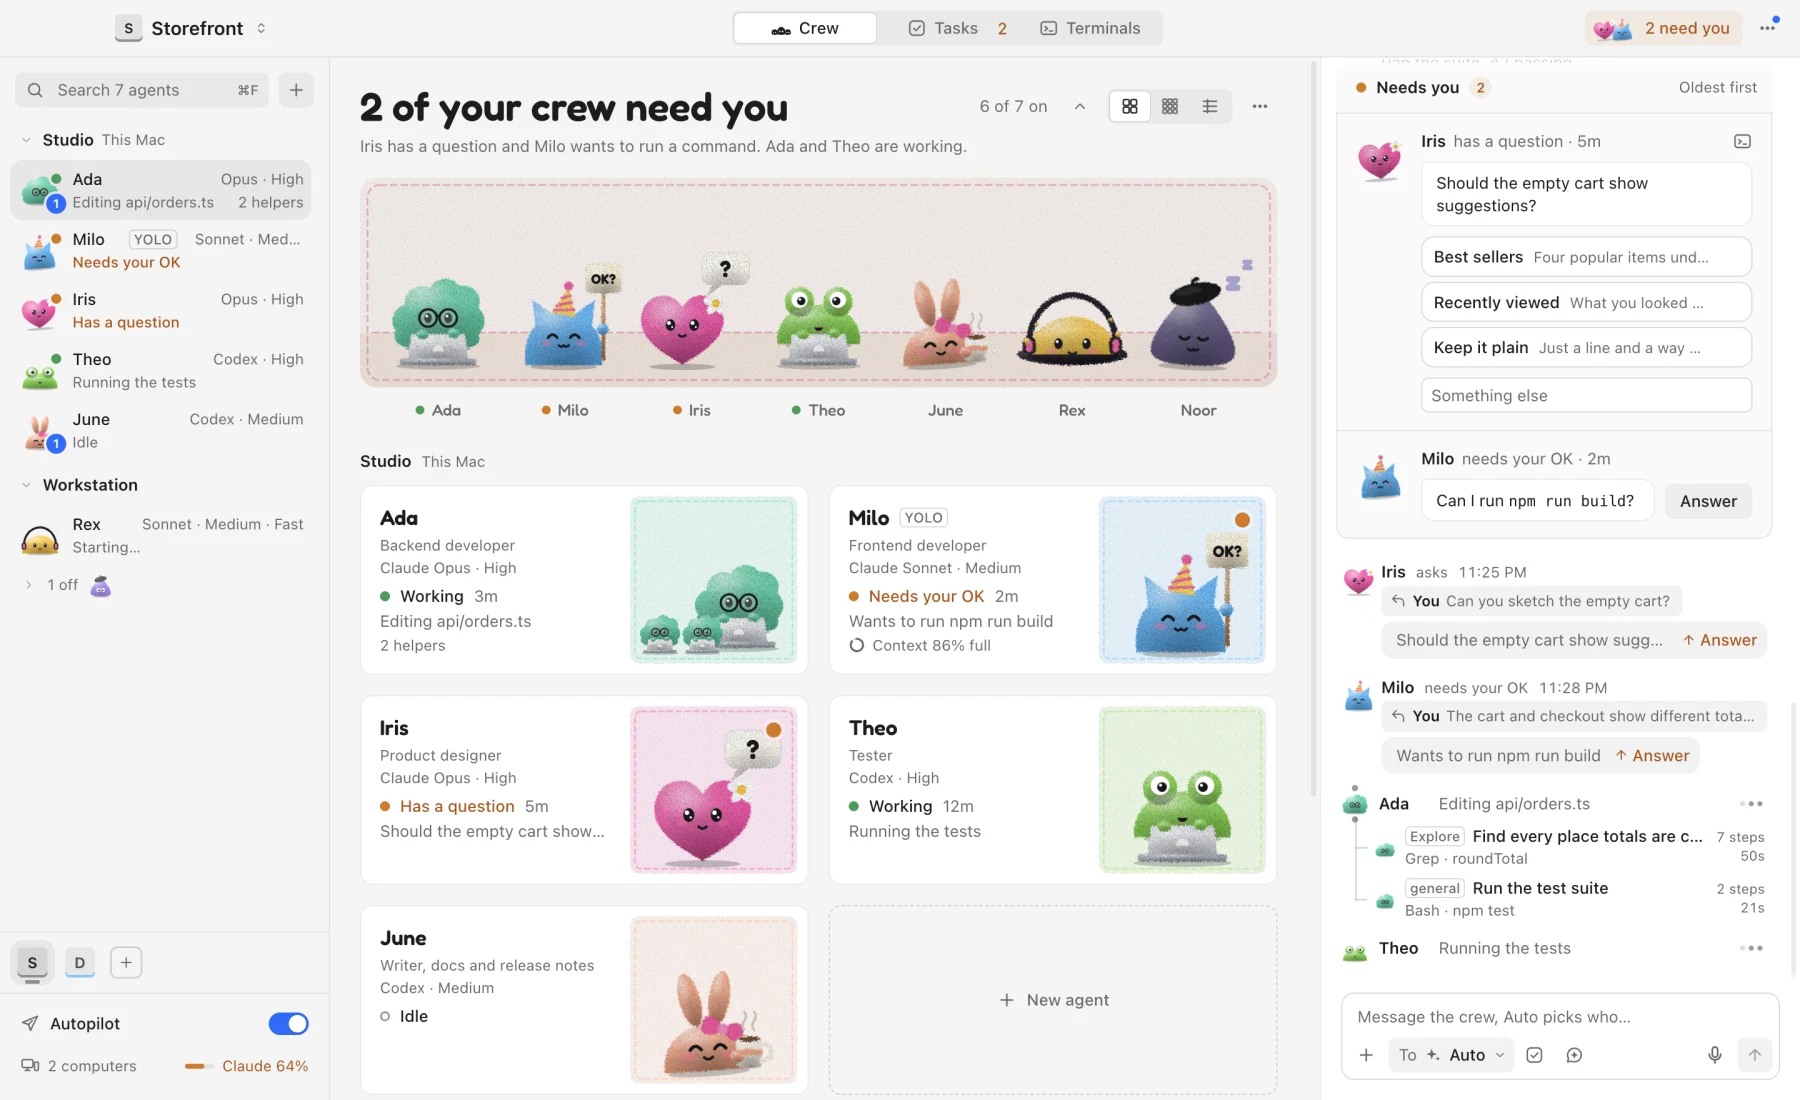
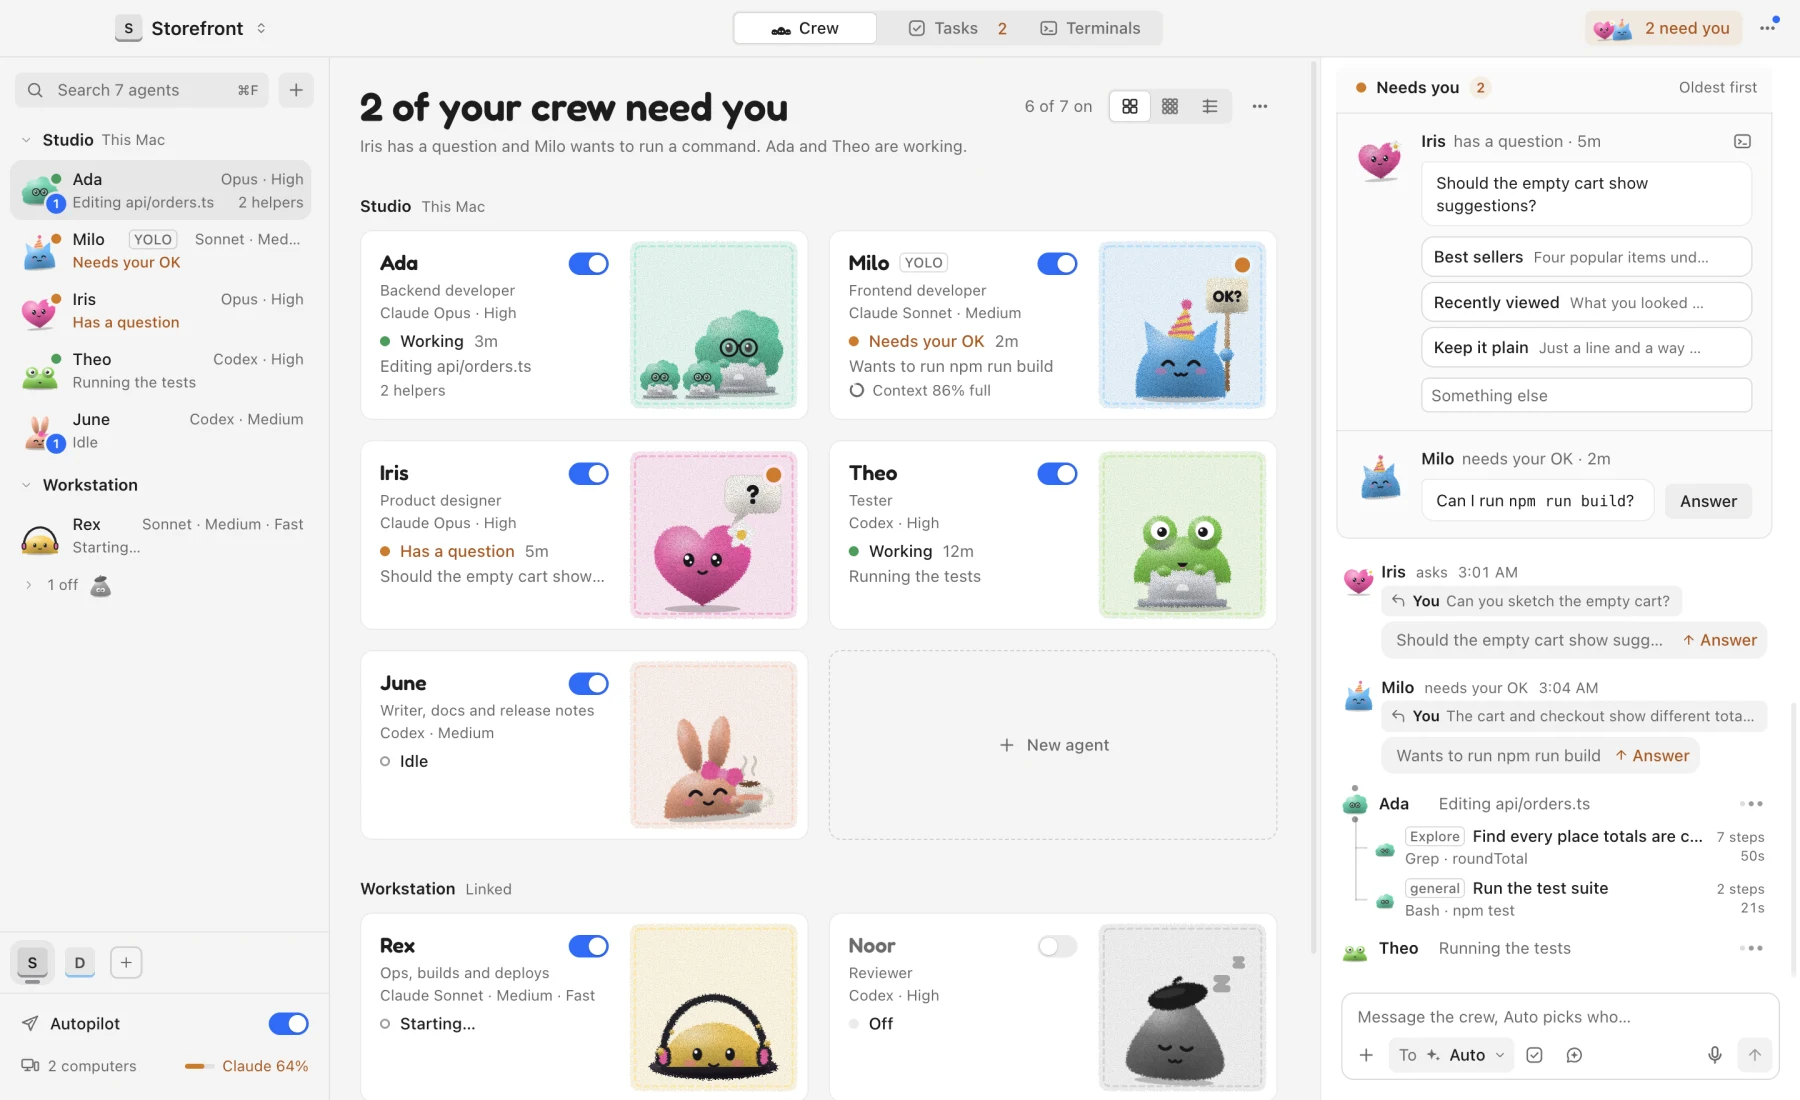
Menus that fade out act closed; the keyboard goes into an agent's sheet; README without the room
Found by an independent review with probes:
- A fading menu still counted as open: a second Escape didn't close the sheet under it, and the tray's gear needed
  a second click. Checks look for .menu:not(.leaving).
- A menu item could fire twice on a quick double Enter or Space (focus stayed on it while it faded): a closing
  menu is inert, loses focus and ignores clicks. Closing twice (a pick, then the state push it caused) is one fade.
- Tab from a just-opened sheet reached the card switches behind it, so Space could turn an agent off under its own
  sheet: the sheet takes focus as it opens, the cards behind it are inert until it closes, and focus goes back to
  the card.
- glide() fade-ins ended at full opacity and snapped back on dimmed rows (an asleep computer's agents, unpicked
  cards in select mode): they end at the element's own opacity now. The panel slide-in too.
- On the Look tab, an off agent's creature shows its colours: they're what you're choosing.
- scripts/screenshots.mjs threw on the room shots, which stopped a full run: they're replaced by switchGif (June
  and Rex turned off and on from their cards).

Cards and switches get short accessible names ("June: Idle", "June on").

README: the Crew view section describes the cards and their switches, with the new recording; crew-room.webp is
gone, and the Crew view and sheet pictures are re-shot.

diff --git a/desktop/ui/collection.js b/desktop/ui/collection.js
@@ -50,7 +50,7 @@ function mountCollection(root, { onTerminal, onImport, onMove, onWorkspace }) {
   // The sheet lives at the top of the page, over everything (sidebar and chat included), not inside the view.
   const sheet = document.createElement('div')
   sheet.className = 'ed-layer'
-  sheet.innerHTML = '<div class="ed-scrim" data-act="back"></div><section class="ed" role="dialog" aria-modal="true"></section>'
+  sheet.innerHTML = '<div class="ed-scrim" data-act="back"></div><section class="ed" role="dialog" aria-modal="true" tabindex="-1"></section>'
   document.body.append(sheet)
   sheet.querySelector('.ed-scrim').addEventListener('click', () => close())
   const $ = (s) => root.querySelector(s)
@@ -132,7 +132,7 @@ function mountCollection(root, { onTerminal, onImport, onMove, onWorkspace }) {
     const huddle = Math.min(3, subs.length + clones.length)
     const helpers = huddle ? `<span class="c2-helpers">${Array.from({ length: huddle }, (_, i) => avatarHTML({ ...a, name: `${a.name}·${i + 2}`, avatar: look, status: 'working', on: true }, { size: 42, mood: 'working', pose: 'laptop', poseMin: 40 })).join('')}</span>` : ''
     const pose = poseOf(a, { ask })
-    return `<div class="pcard c2 ${a.on ? a.status : 'off'} ${picked.has(a.name) ? 'picked' : ''}" data-name="${esc(a.name)}" style="--c:${colorOf(look)}" role="button" tabindex="0">
+    return `<div class="pcard c2 ${a.on ? a.status : 'off'} ${picked.has(a.name) ? 'picked' : ''}" data-name="${esc(a.name)}" style="--c:${colorOf(look)}" role="button" tabindex="0" aria-label="${esc(`${a.seed ?? a.name}: ${statusWord(a, ask)}`)}">
       <span class="c-name"><b>${esc(a.seed ?? a.name)}</b>${a.yolo ? '<i class="tag" title="YOLO: skips every permission prompt">YOLO</i>' : ''}</span>
       <span class="pc-power">${powerSwitch(a)}</span>
       <span class="c-job" title="${esc(a.area)}">${esc(a.area || 'No job yet. Open the card to give it one.')}</span>
@@ -155,7 +155,7 @@ function mountCollection(root, { onTerminal, onImport, onMove, onWorkspace }) {
     const line = atWork(a) && a.status !== 'waiting' && a.activity ? activityWords(a.activity) : statusWord(a, ask)
     const cls = !a.on ? 'off' : a.status === 'waiting' ? 'needs' : a.status === 'working' && !a.waitingOn?.length ? 'working' : a.status === 'starting' ? 'starting' : 'idle'
     const said = a.status === 'waiting' && a.on ? statusWord(a, ask) : line
-    return `<div class="pcard mini ${a.on ? a.status : 'off'} ${picked.has(a.name) ? 'picked' : ''}" data-name="${esc(a.name)}" style="--c:${colorOf(look)}" title="${esc([a.seed ?? a.name, a.area, brainWords(a, state.providers), what?.tip].filter(Boolean).join('\n'))}" role="button" tabindex="0">
+    return `<div class="pcard mini ${a.on ? a.status : 'off'} ${picked.has(a.name) ? 'picked' : ''}" data-name="${esc(a.name)}" style="--c:${colorOf(look)}" title="${esc([a.seed ?? a.name, a.area, brainWords(a, state.providers), what?.tip].filter(Boolean).join('\n'))}" role="button" tabindex="0" aria-label="${esc(`${a.seed ?? a.name}: ${said}`)}">
       <span class="pc-name"><b>${esc(a.seed ?? a.name)}</b>${a.yolo ? '<i class="tag">YOLO</i>' : ''}</span>
       <span class="pc-power">${powerSwitch(a)}</span>
       <span class="pc-line ${cls === 'needs' ? 'needs-text' : ''}"><i class="dot ${cls}"></i><span>${esc(said)}</span></span>
@@ -473,11 +473,16 @@ function mountCollection(root, { onTerminal, onImport, onMove, onWorkspace }) {
     if (!force) advOpen = false
     modelTyping = false
     const scrolled = force && sheet.classList.contains('open') ? card.querySelector('.ed-pane.on')?.scrollTop ?? 0 : 0
+    const opening = !sheet.classList.contains('open')
     morphTo(a?.name, 'open', () => {
       drawCard()
       if (scrolled) card.querySelector('.ed-pane.on').scrollTop = scrolled
       sheet.classList.add('open')
     })
+    // the keyboard goes with it: into the sheet, and not to the cards behind it (their switches would turn agents off
+    // under the sheet) until it closes
+    list.inert = true
+    if (opening && !card.contains(document.activeElement)) card.focus({ preventScroll: true })
     if (!a) setTimeout(() => card.querySelector('.pd-name')?.focus(), 250)
   }
 
@@ -486,6 +491,13 @@ function mountCollection(root, { onTerminal, onImport, onMove, onWorkspace }) {
     const name = editing
     editing = null
     morphTo(name, 'close', () => sheet.classList.remove('open'))
+    list.inert = false
+    // focus back where it came from: the agent's card (when the keyboard was in the sheet)
+    if (!document.activeElement || document.activeElement === document.body || card.contains(document.activeElement)) {
+      const from = name && grid.querySelector(`.pcard[data-name="${CSS.escape(name)}"]`)
+      if (from) from.focus({ preventScroll: true })
+      else document.activeElement?.blur?.()
+    }
     return true
   }
 
@@ -577,6 +589,7 @@ function mountCollection(root, { onTerminal, onImport, onMove, onWorkspace }) {
   function drawTab() {
     segmented(card.querySelector('.ed-tabs'), (b) => b.dataset.tab === tab)
     for (const p of card.querySelectorAll('.ed-pane')) p.classList.toggle('on', p.dataset.pane === tab)
+    card.dataset.tab = tab // on Look, an agent that's off shows its colours: they're what you're choosing
   }
 
   function setTab(next) {
@@ -1097,7 +1110,7 @@ function mountCollection(root, { onTerminal, onImport, onMove, onWorkspace }) {
 
   document.addEventListener('keydown', (e) => {
     if (editing && commandKey(e) && !e.altKey && e.key === 's') return void (e.preventDefault(), save())
-    if (e.key !== 'Escape' || e.defaultPrevented || document.querySelector('dialog[open], .menu, .mentions:not(.hidden)')) return
+    if (e.key !== 'Escape' || e.defaultPrevented || document.querySelector('dialog[open], .menu:not(.leaving), .mentions:not(.hidden)')) return
     if (editing) return void (e.preventDefault(), close())
     if (selecting && root.offsetParent) setSelecting(false)
   })
@@ -1119,8 +1132,10 @@ function mountCollection(root, { onTerminal, onImport, onMove, onWorkspace }) {
         drawAvatar(true)
         card.querySelector('.pd-msg').textContent = 'Saved'
       } else if (editing && editing !== ':new' && !agentNamed(editing)) {
-        editing = null
+        editing = null // it's gone (removed, or moved away): its sheet closes with it
         sheet.classList.remove('open')
+        list.inert = false
+        if (card.contains(document.activeElement)) document.activeElement.blur()
       } else if (editing) {
         drawState()
         drawFacts()

diff --git a/desktop/ui/common.js b/desktop/ui/common.js
@@ -350,7 +350,7 @@ function modeChips(a) {
 
 function powerSwitch(a) {
   const busy = a.status === 'working' || a.status === 'waiting'
-  return `<input type="checkbox" class="switch sm" data-power="${esc(a.name)}" ${busy ? 'data-busy' : ''} ${a.on ? 'checked' : ''} title="${a.on ? 'Turn off (stays off after restarts)' : 'Turn on (resumes its session)'}">`
+  return `<input type="checkbox" class="switch sm" data-power="${esc(a.name)}" ${busy ? 'data-busy' : ''} ${a.on ? 'checked' : ''} title="${a.on ? 'Turn off (stays off after restarts)' : 'Turn on (resumes its session)'}" aria-label="${esc(`${a.seed ?? a.name.split('@')[0]} on`)}">`
 }
 
 // One row per agent: name and status / what it owns / brain and modes, plus what it's doing while it works.
@@ -762,7 +762,7 @@ const reduceMotion = () => matchMedia('(prefers-reduced-motion: reduce)').matche
 // height lays out and repaints everything around it on every frame, and a grid of cards jumps between column counts
 // on the way; here the layout changes once and the pictures move. targets: the elements that may move (a list, or a
 // function that finds them, asked before and after the change; never one inside another). appear: elements that
-// weren't there before fade in. Returns what change() returns.
+// weren't there before fade in (to their own opacity: a dimmed row stays dimmed). Returns what change() returns.
 const glides = new WeakMap() // element -> its running glide
 function glide(targets, change, { duration = DUR.move, easing = EASE.move, appear = false } = {}) {
   if (reduceMotion()) return change()
@@ -780,7 +780,7 @@ function glide(targets, change, { duration = DUR.move, easing = EASE.move, appea
     if (!now.width && !now.height) continue
     const was = before.get(el)
     if (!was) {
-      if (appear && seen(now)) el.animate([{ opacity: 0, transform: 'translateY(-4px)' }, { opacity: 1, transform: 'none' }], { duration: DUR.move, easing: EASE.out, delay: 60, fill: 'backwards' })
+      if (appear && seen(now)) el.animate([{ offset: 0, opacity: 0, transform: 'translateY(-4px)' }], { duration: DUR.move, easing: EASE.out, delay: 60, fill: 'backwards' })
       continue
     }
     const dx = was.left - now.left
@@ -790,7 +790,7 @@ function glide(targets, change, { duration = DUR.move, easing = EASE.move, appea
     // lands instead, while the ones that stay in their row slide along it
     const jumps = Math.abs(dx) > now.width / 2 && Math.abs(dy) > now.height / 2
     const anim = jumps
-      ? el.animate([{ opacity: 0, transform: 'scale(.97)' }, { opacity: 1, transform: 'none' }], { duration, easing: EASE.out, delay: 40, fill: 'backwards' })
+      ? el.animate([{ offset: 0, opacity: 0, transform: 'scale(.97)' }], { duration, easing: EASE.out, delay: 40, fill: 'backwards' })
       : el.animate([{ transform: `translate(${dx}px, ${dy}px)` }, { transform: 'none' }], { duration, easing })
     glides.set(el, anim)
     anim.finished.then(() => glides.get(el) === anim && glides.delete(el), () => {})
@@ -2643,9 +2643,12 @@ function popMenu(at, items, onPick) {
   el.style.left = `${Math.max(8, Math.min(r.left, innerWidth - w - 8))}px`
   el.style.top = `${up ? Math.max(8, r.top - h - 4) : r.bottom + 4}px`
   const close = () => {
-    // it fades away, quicker than it came, and takes no more clicks while it does
+    if (el.classList.contains('leaving')) return // closed again (a pick, then the state push it caused): one fade
+    // it fades away, quicker than it came, and takes no more clicks, keys or focus while it does (as if it were gone)
     el.classList.add('leaving')
     el.removeAttribute('role')
+    if (el.contains(document.activeElement)) document.activeElement.blur()
+    el.inert = true
     if (reduceMotion()) el.remove()
     else el.animate([{ opacity: 1 }, { opacity: 0 }], { duration: DUR.leave, easing: EASE.in, fill: 'forwards' }).finished.then(() => el.remove(), () => el.remove())
     removeEventListener('pointerdown', outside, true)
@@ -2666,7 +2669,7 @@ function popMenu(at, items, onPick) {
   }
   el.addEventListener('click', (e) => {
     const b = e.target.closest('[data-menu-act]')
-    if (!b) return
+    if (!b || el.classList.contains('leaving')) return
     close()
     onPick(b.dataset.menuAct)
   })

diff --git a/desktop/ui/dashboard.js b/desktop/ui/dashboard.js
@@ -86,7 +86,7 @@ function setPanel(which, on) {
     out.finished.then(() => (panel.classList.remove('leaving'), (panel.style.width = ''), out.cancel()), () => {})
   }
   glide(animate ? () => $('.center').querySelectorAll(GLIDING) : [], () => document.body.classList.toggle(`no-${which}`, !on))
-  if (animate && on) panel.animate([{ opacity: 0, transform: away }, { opacity: 1, transform: 'none' }], { duration: DUR.move, easing: EASE.out })
+  if (animate && on) panel.animate([{ offset: 0, opacity: 0, transform: away }], { duration: DUR.move, easing: EASE.out })
   requestAnimationFrame(() => terms.forEach((_, name) => resize(name)))
 }
 const panelShown = (which) => !document.body.classList.contains(`no-${which}`)

diff --git a/desktop/ui/collection.css b/desktop/ui/collection.css
@@ -166,6 +166,8 @@
   background: var(--surface); box-shadow: var(--shadow-float);
   opacity: 0; transform: translateY(8px) scale(.985); transition: opacity var(--t-leave) var(--in), transform var(--t-pop) var(--in);
 }
+.ed[data-tab=look] .pd-av .av.asleep { filter: none; }
+.ed:focus { outline: none; } /* focused as it opens, so the keyboard is in it (the ring is for what's inside) */
 .ed-layer.open .ed { opacity: 1; transform: none; transition: opacity var(--t-pop) var(--out), transform var(--t-move) var(--move); }
 /* on Windows its corners stay clear of the window buttons over the titlebar */
 html[data-os=win] .ed { height: min(720px, calc(100vh - 104px)); }

diff --git a/desktop/ui/tray.js b/desktop/ui/tray.js
@@ -261,7 +261,7 @@
   // already did).
   let settingsMenu = null
   let settingsWasOpen = false
-  addEventListener('pointerdown', (e) => (settingsWasOpen = Boolean(e.target.closest?.('[data-act=settings]') && settingsMenu?.el.isConnected)), true)
+  addEventListener('pointerdown', (e) => (settingsWasOpen = Boolean(e.target.closest?.('[data-act=settings]') && settingsMenu?.el.isConnected && !settingsMenu.el.classList.contains('leaving'))), true)
   function settings(btn) {
     if (settingsWasOpen) return (settingsWasOpen = false)
     const theme = state.theme ?? 'system'

diff --git a/README.md b/README.md
@@ -8,7 +8,7 @@ It runs Claude Code and Codex. GLM and local models (through Ollama) work too, a
 
 <picture>
   <source media="(prefers-color-scheme: dark)" srcset="docs/images/crew-dark.webp">
-  <img src="docs/images/crew-light.webp" alt="The dashboard: the crew on the left, the Crew room and the agents' cards in the middle, the chat with what needs you on the right">
+  <img src="docs/images/crew-light.webp" alt="The dashboard: the crew on the left, the agents' cards in the middle, the chat with what needs you on the right">
 </picture>
 
 ## Get started
@@ -33,11 +33,11 @@ On a Mac, the first `npm start` builds `Crew.app` and opens it; after that it op
 
 ## Meet your crew
 
-The Crew view opens on the crew's room. Each creature acts out what it's doing: it types at a little felt laptop while it works, holds a mug while it's free, holds up an "OK?" sign when it wants your permission, and asks with a speech bubble when it has a question. One line on top says how things are, like "2 of your crew need you" or "Everyone's busy". Click a creature to find its card, or fold the room away if you'd rather see only the cards.
+The Crew view gives each agent a card: what it does, which model it runs on, what it's busy with, and how full its conversation is when that matters. One line on top says how things are, like "2 of your crew need you" or "Everyone's busy". Each creature acts out what it's doing: it types at a little felt laptop while it works, holds a mug while it's free, holds up an "OK?" sign when it wants your permission, and asks with a speech bubble when it has a question.
 
-<p align="center"><img src="docs/images/crew-room.webp" alt="The Crew room: Milo gets his OK and goes back to his laptop, Theo finishes and picks up a mug, Iris gets her answer, and the line on top goes from 2 of your crew need you to Everyone's busy" width="1000"></p>
+Every card has an on/off switch. An agent you turn off falls asleep in black and white, right where its card was, and picks up its conversation when you turn it back on.
 
-Under the room, each agent has a card: what it does, which model it runs on, what it's busy with, and how full its conversation is when that matters.
+<p align="center"><img src="docs/images/crew-switch.webp" alt="Turning June and Rex off from their cards: each falls asleep in black and white and wakes up again, and no card moves" width="1000"></p>
 
 Click a card to open it. This is where you set the agent's job, model and folder, and write its instructions (or let it draft them for itself). You can also dress it up.
 
